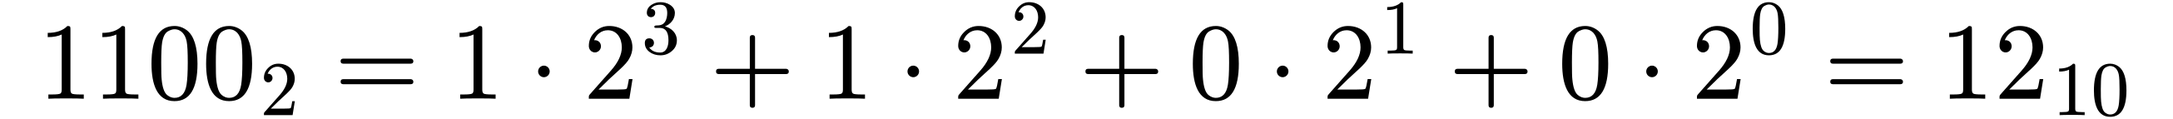
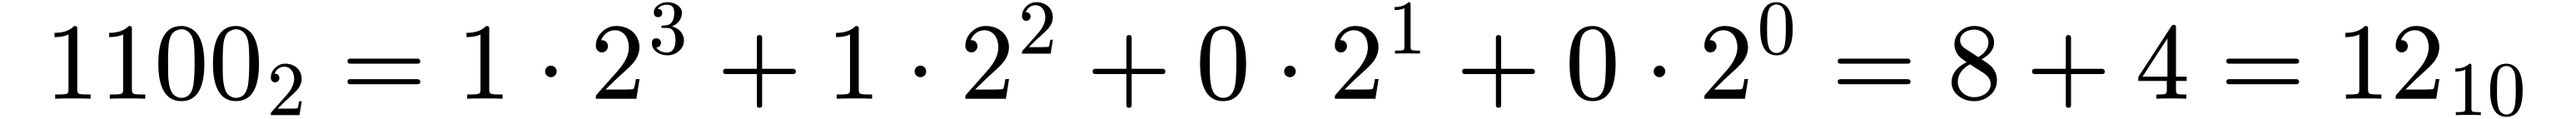
Update binary representation of 12 in LaTeX; enhance SVG output with improved dimensions and clarity

Changed region(s): [[0.0, 0.028, 0.9927, 0.979], [0.5274, 0.028, 0.5584, 0.0839]]

diff --git a/equations/12_in_binary.tex b/equations/12_in_binary.tex
@@ -1,4 +1,4 @@
 % 12 in binary
 % 12_{10} = 1 \cdot 2^3 + 1 \cdot 2^2 + 0 \cdot 2^1 + 0 \cdot 2^0 = 1100_{2}
 
-1100_{2} = 1 \cdot 2^3 + 1 \cdot 2^2 + 0 \cdot 2^1 + 0 \cdot 2^0 = 12_{10}
+1100_{2} = 1 \cdot 2^3 + 1 \cdot 2^2 + 0 \cdot 2^1 + 0 \cdot 2^0 = 8 + 4 = 12_{10}
